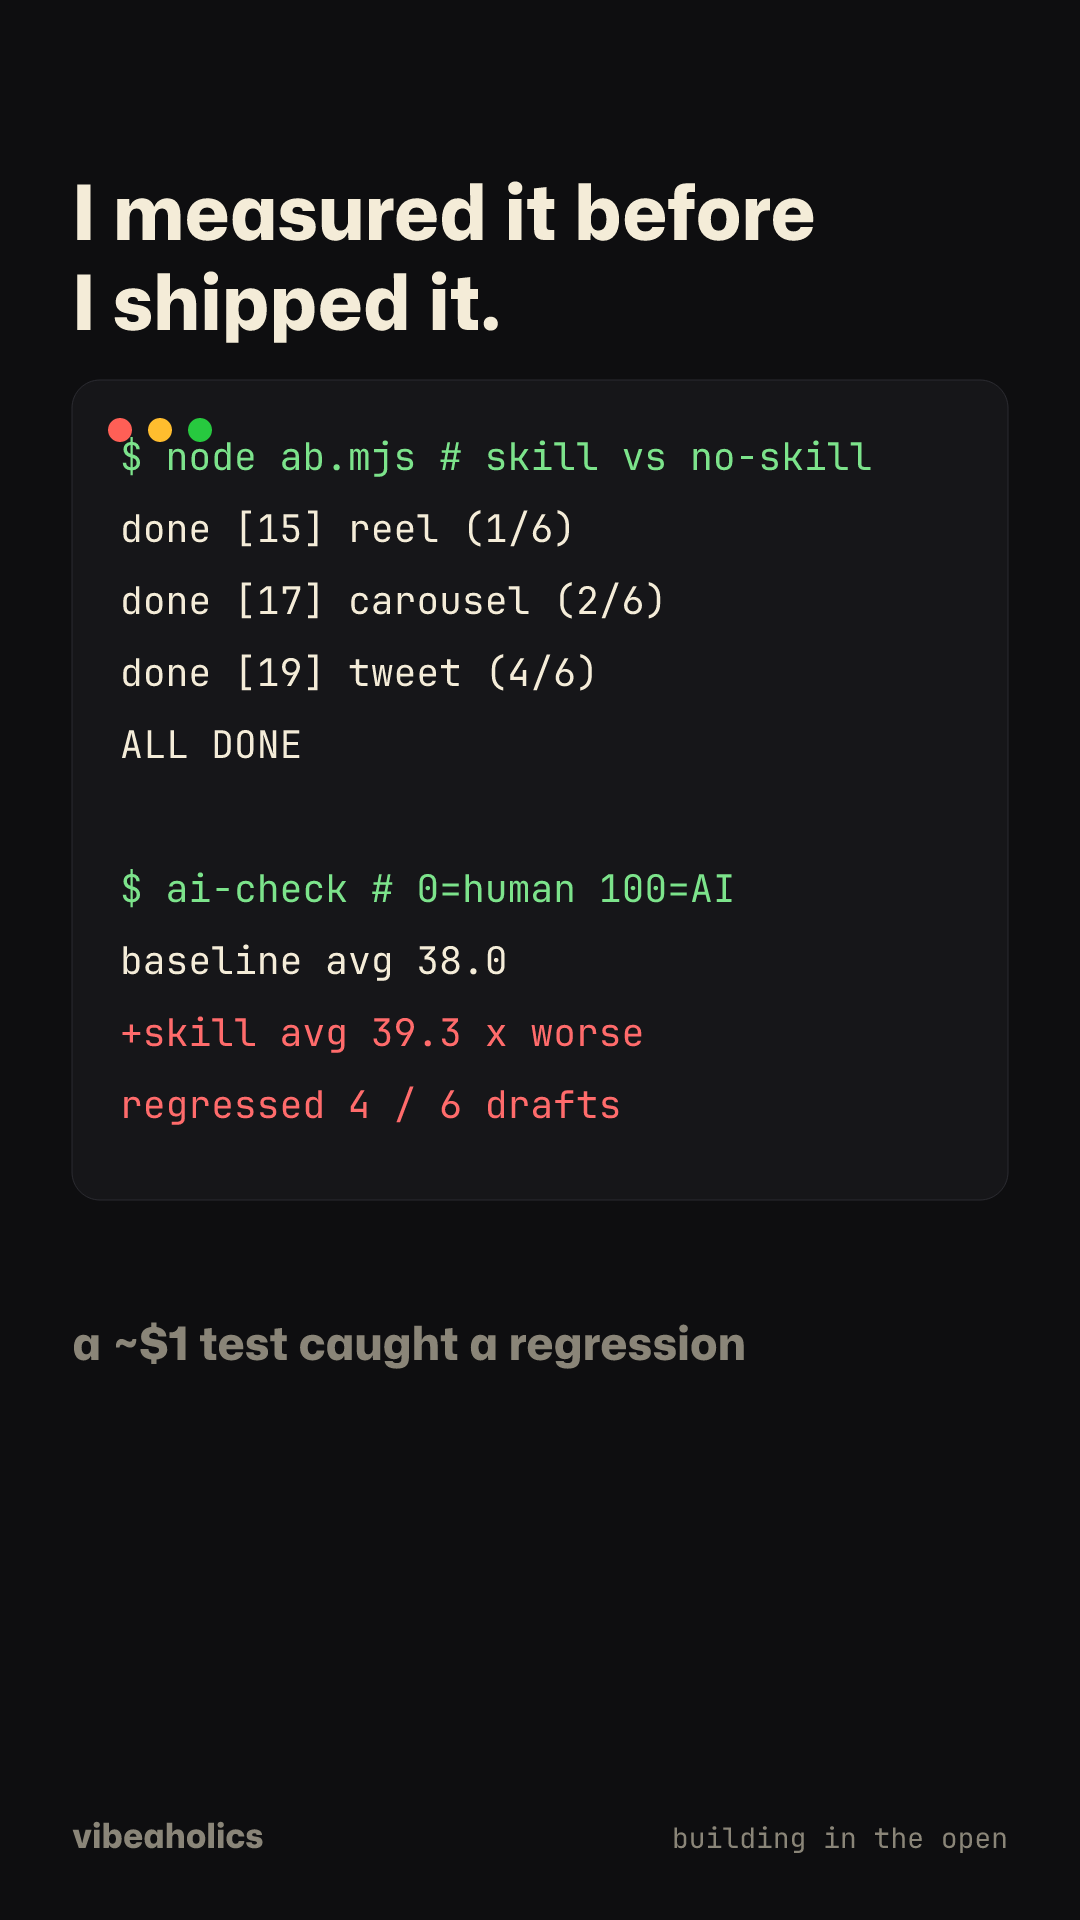
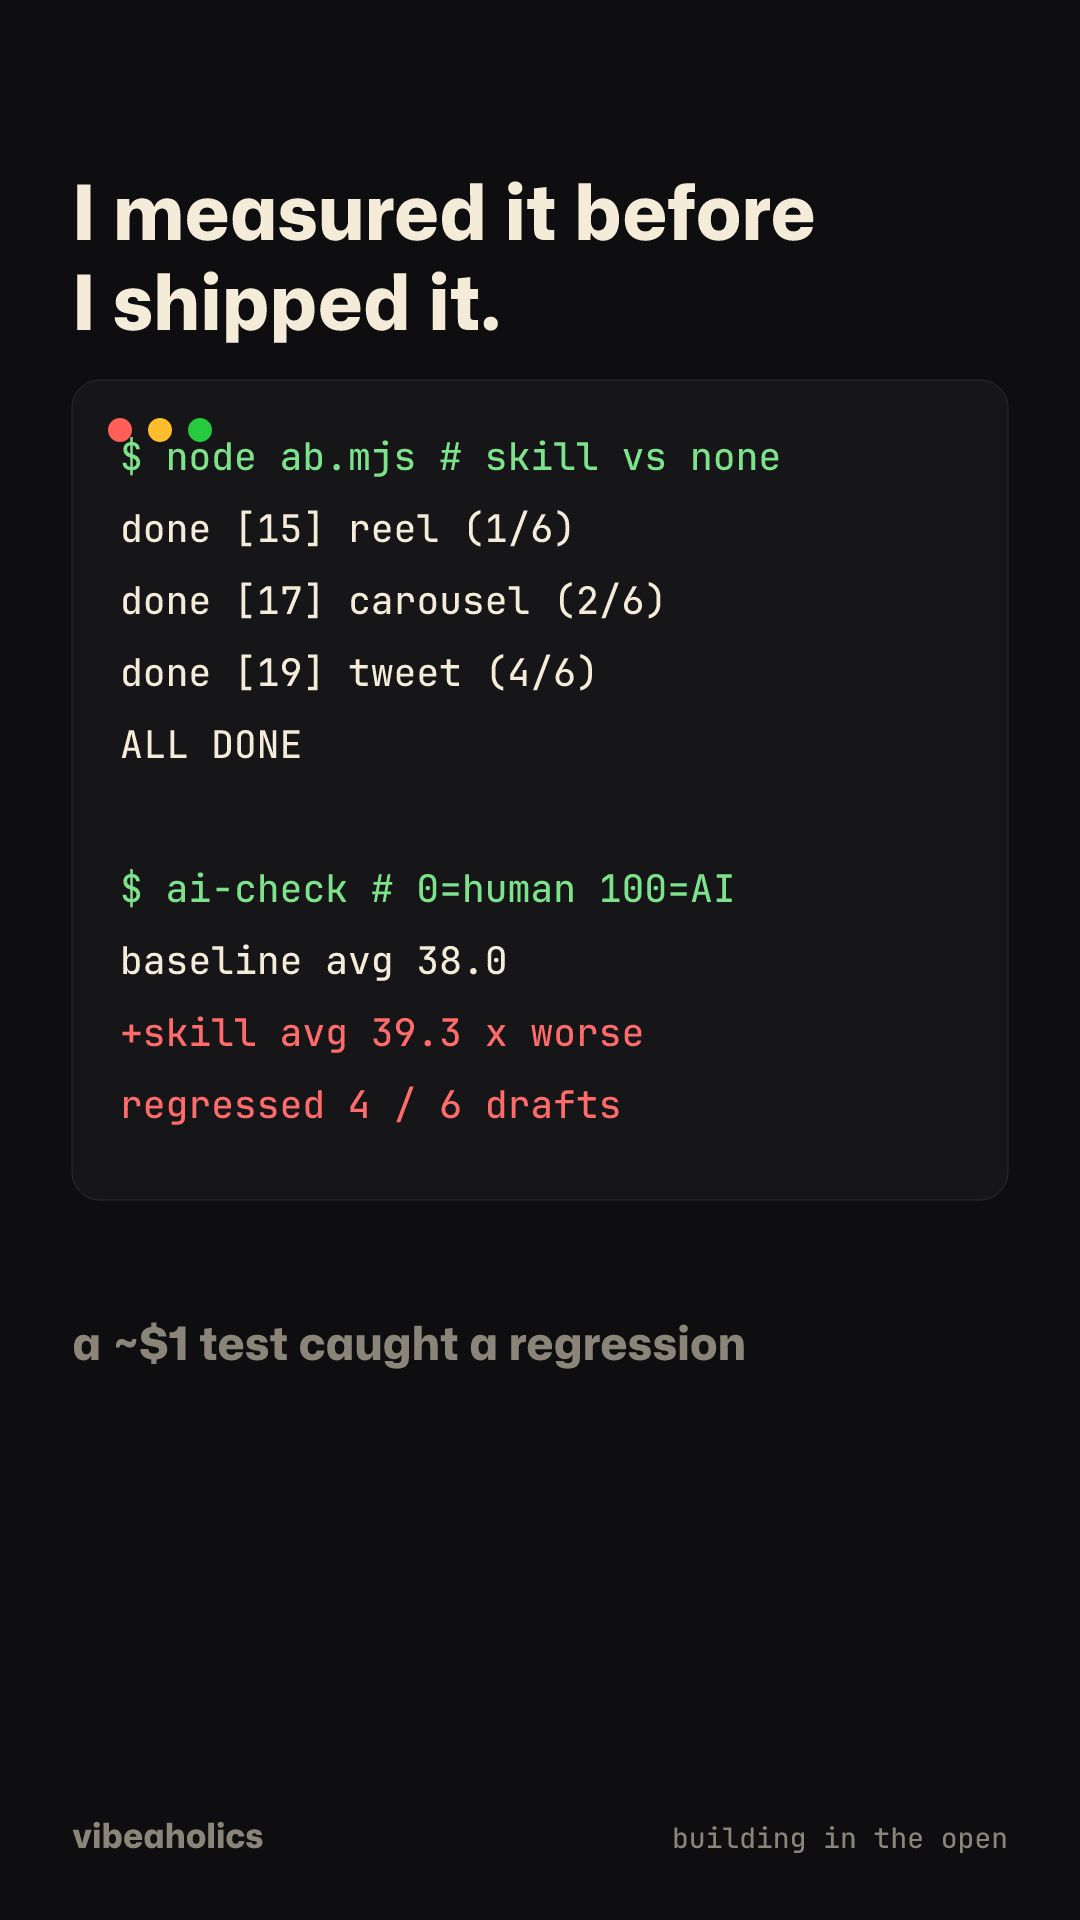
assets: full 12-card set (deslop-scrubbed) + WORKFLOW.md + add-asset.sh

Changed region(s): [[0.6722, 0.2188, 0.7639, 0.25]]

diff --git a/WORKFLOW.md b/WORKFLOW.md
@@ -1,0 +1,22 @@
+# Workflow — getting an image into the repo + Notion
+
+Same destination for BOTH generated cards and your own real screenshots.
+
+## 1. Put the image in a session folder
+    sessions/<YYYY-MM-DD>-<slug>/<name>.png
+
+## 2. Push it (helper does commit + push + prints the URL)
+    ./add-asset.sh <path-to-image> <session-slug>
+    # e.g. ./add-asset.sh ~/Desktop/notion-board.png 2026-07-10-deslop-eval
+Manual equivalent: git add . && git commit -m "assets: ..." && git push
+
+## 3. Public URL
+    https://raw.githubusercontent.com/paulp2223/nova-content-assets/main/sessions/<slug>/<name>.png
+
+## 4. Reference it on the Notion idea (Nova Drafts > Ideas)
+    - add an external-image block with that URL (inline preview), and
+    - append the URL to the page's `assets: [ ... ]` code block (so reel-assembly can pull it).
+
+## Two producers
+- **Generated cards** — ask Claude to render branded cards from session data; steps 1-4 automated.
+- **Real screenshots** (Notion board, Excel, terminal, GitHub) — you capture, drop in the folder, run add-asset.sh, wire in Notion.